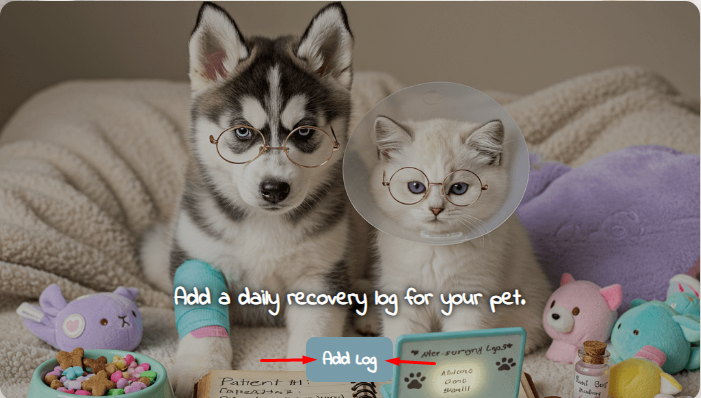
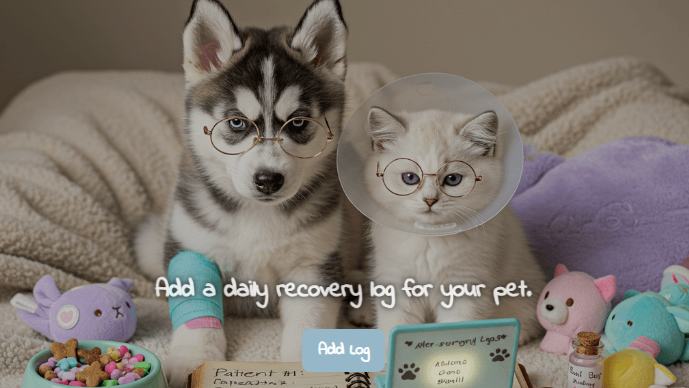
slider extend

diff --git a/pets/templates/pets/index.html b/pets/templates/pets/index.html
@@ -111,6 +111,11 @@
               <img src="{% static 'images/demo-askai.png' %}" alt="Ask AI helper" />
               <p class="tour-caption">Ask AI for quick guidance based on your logs.</p>
             </div>
+
+            <div class="tour-slide">
+              <img src="{% static 'images/demo-appreminder.png' %}" alt="Appoitment reminding" />
+              <p class="tour-caption">Never miss a vet check-up.</p>
+            </div>
           </div>
 
           <div class="tour-dots">
@@ -118,6 +123,7 @@
             <button class="tour-dot" data-index="1"></button>
             <button class="tour-dot" data-index="2"></button>
             <button class="tour-dot" data-index="3"></button>
+            <button class="tour-dot" data-index="4"></button>
           </div>
         </div>
       </div>

diff --git a/static/css/style.css b/static/css/style.css
@@ -413,8 +413,8 @@ header .header-right button:hover {
     background-attachment: scroll!important;  /* avoid weird fixed behaviour */
 
     /* Give it height */
-    padding: 4rem 1.5rem 6rem;   /* room above + below */
-    min-height: calc(100vh - 180px);  /* below the fixed header */
+    padding: 2rem 1.5rem 2rem;   /* room above + below */
+    min-height: calc(100vh - 180px);  
 
     display: flex;
     align-items: center;
@@ -441,7 +441,7 @@ header .header-right button:hover {
     position: relative;    /* NO MORE absolute here */
     z-index: 2;
     width: 100%;
-    max-width: 1300px;
+    max-width: 1800px;
     
     display: flex;
     flex-wrap: wrap;
